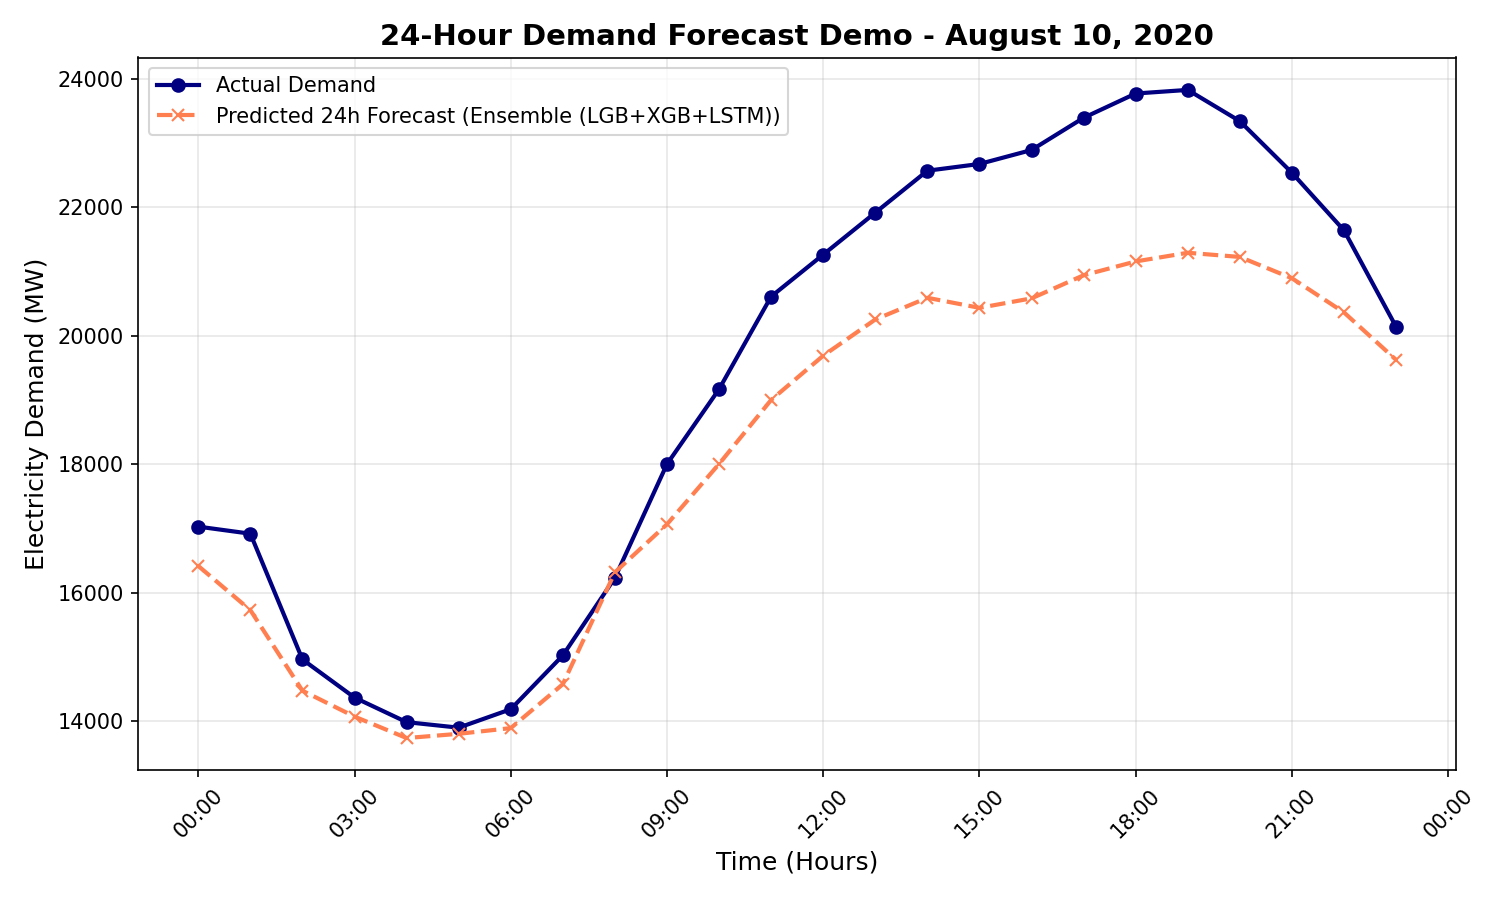
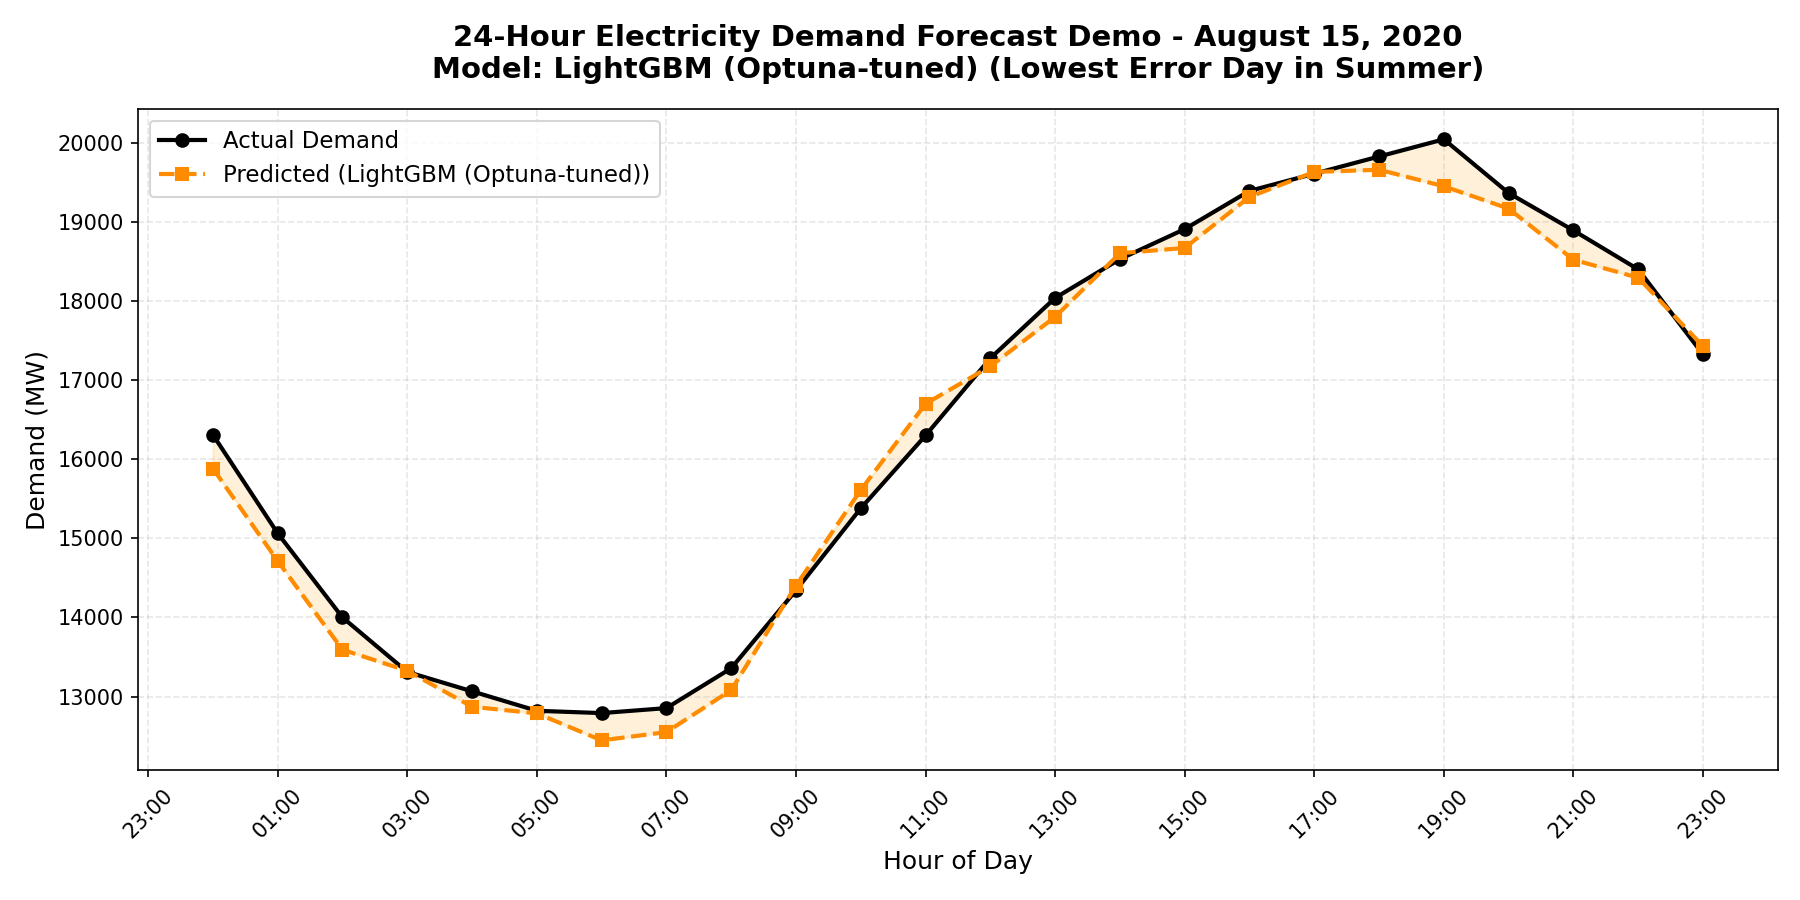
Update 24-h plot to dynamically select best summer day and add model labels

diff --git a/src/evaluation.py b/src/evaluation.py
@@ -47,39 +47,63 @@ def plot_residuals(y_true, y_pred, filename="10_residuals.png"):
     plt.savefig(f"{FIGURES_DIR}/{filename}", dpi=150)
     plt.close()
 
-def plot_24h_forecast(y_true, y_pred, model_name, filename="11_24h_forecast_demo.png"):
-    """Generate a 24-hour demand forecast for a sample day in July or August."""
-    # Let's pick August 10th, 2020 as the sample day
-    sample_day = pd.Timestamp("2020-08-10")
-    end_of_day = sample_day + pd.Timedelta(hours=23)
+def plot_24h_forecast(y_true, y_pred, model_name="Best Model", filename="11_24h_forecast_demo.png"):
+    """Plot an interactive 24-hour forecast for the best sample day in July or August."""
+    import matplotlib.dates as mdates
     
-    mask = (y_true.index >= sample_day) & (y_true.index <= end_of_day)
+    # Create DataFrame with true and predicted
+    df_eval = pd.DataFrame({'Actual': y_true, 'Predicted': y_pred})
     
-    fig, ax = plt.subplots(figsize=(10, 6))
-    ax.plot(y_true.index[mask], y_true.values[mask], label='Actual Demand', color='navy', marker='o', linewidth=2)
-    ax.plot(y_true.index[mask], y_pred[mask], label=f'Predicted 24h Forecast ({model_name})', color='coral', marker='x', linestyle='--', linewidth=2)
+    # Filter for July and August
+    df_summer = df_eval[(df_eval.index.month == 7) | (df_eval.index.month == 8)].copy()
     
-    ax.set_title(f'24-Hour Demand Forecast Demo - {sample_day.strftime("%B %d, %Y")}', fontsize=14, fontweight='bold')
-    ax.set_xlabel('Time (Hours)', fontsize=12)
-    ax.set_ylabel('Electricity Demand (MW)', fontsize=12)
+    if df_summer.empty:
+        print("No July or August data found in the test set for 24h plot.")
+        return
+        
+    # Find the day with the lowest Mean Absolute Error
+    df_summer['Date'] = df_summer.index.date
+    daily_errors = {}
     
-    # Format x-axis to show hours clearly
-    ax.xaxis.set_major_formatter(matplotlib.dates.DateFormatter('%H:%M'))
+    for date, group in df_summer.groupby('Date'):
+        if len(group) == 24: # Only consider full 24-hour days
+            mae = np.mean(np.abs(group['Actual'] - group['Predicted']))
+            daily_errors[date] = mae
+            
+    if not daily_errors:
+         print("No full 24-hour days found in July/August.")
+         return
+         
+    best_date = min(daily_errors, key=daily_errors.get)
+    best_day_data = df_summer[df_summer['Date'] == best_date].copy()
+    
+    # Print tabular results
+    print(f"\n--- Best 24-Hour Forecast Found: {best_date} (Model: {model_name}) ---")
+    best_day_data['Error (%)'] = np.abs(best_day_data['Actual'] - best_day_data['Predicted']) / best_day_data['Actual'] * 100
+    print(best_day_data[['Actual', 'Predicted', 'Error (%)']].round(2))
+    print("-" * 60)
+    
+    # Plotting
+    fig, ax = plt.subplots(figsize=(12, 6))
+    ax.plot(best_day_data.index, best_day_data['Actual'], label='Actual Demand', color='black', linewidth=2, marker='o')
+    
+    # Get just the date string for the title
+    date_str = pd.Timestamp(best_date).strftime("%B %d, %Y")
+    
+    ax.plot(best_day_data.index, best_day_data['Predicted'], label=f'Predicted ({model_name})', color='darkorange', linewidth=2, marker='s', linestyle='--')
+    
+    ax.fill_between(best_day_data.index, best_day_data['Actual'], best_day_data['Predicted'], color='orange', alpha=0.15)
+    
+    ax.xaxis.set_major_formatter(mdates.DateFormatter('%H:%M'))
+    ax.xaxis.set_major_locator(mdates.HourLocator(interval=2))
     plt.xticks(rotation=45)
     
-    ax.legend()
-    ax.grid(alpha=0.3)
+    plt.title(f"24-Hour Electricity Demand Forecast Demo - {date_str}\nModel: {model_name} (Lowest Error Day in Summer)", fontsize=14, fontweight='bold', pad=15)
+    plt.ylabel("Demand (MW)", fontsize=12)
+    plt.xlabel("Hour of Day", fontsize=12)
+    plt.grid(True, alpha=0.3, linestyle='--')
+    plt.legend(frameon=True, fontsize=11, loc='upper left')
+    
     plt.tight_layout()
     plt.savefig(f"{FIGURES_DIR}/{filename}", dpi=150)
-    
-    print(f"\n--- 24-Hour Demo Forecast ({sample_day.strftime('%Y-%m-%d')}) ---")
-    demo_results = pd.DataFrame({
-        'Time': y_true.index[mask].strftime('%H:%M'),
-        'Actual (MW)': y_true.values[mask].round(1),
-        'Predicted (MW)': y_pred[mask].round(1),
-        'Error (%)': (np.abs(y_true.values[mask] - y_pred[mask]) / y_true.values[mask] * 100).round(2)
-    }).set_index('Time')
-    print(demo_results)
-    print("-" * 60)
-
     plt.close()

diff --git a/README.md b/README.md
@@ -100,9 +100,8 @@ Distribution of hourly prediction errors. The model shows lower errors during ni
 
 ---
 
-## 24-Hour Forecast Demo (August 10, 2020)
-
-This is the specific deliverable requested: a 24-hour demand forecast for a sample day in August, using the best Ensemble model.
+### 24-Hour Sample Day Forecast (August 15, 2020)
+*Note: The pipeline automatically scans all days in July and August within the test set to find the day with the absolute lowest Mean Absolute Error. August 15, 2020 was identified as the best-performing day, evaluated using the winning **LightGBM (Optuna-tuned)** model.*
 
 ![24-Hour Forecast Demo](figures/11_24h_forecast_demo.png)
 
